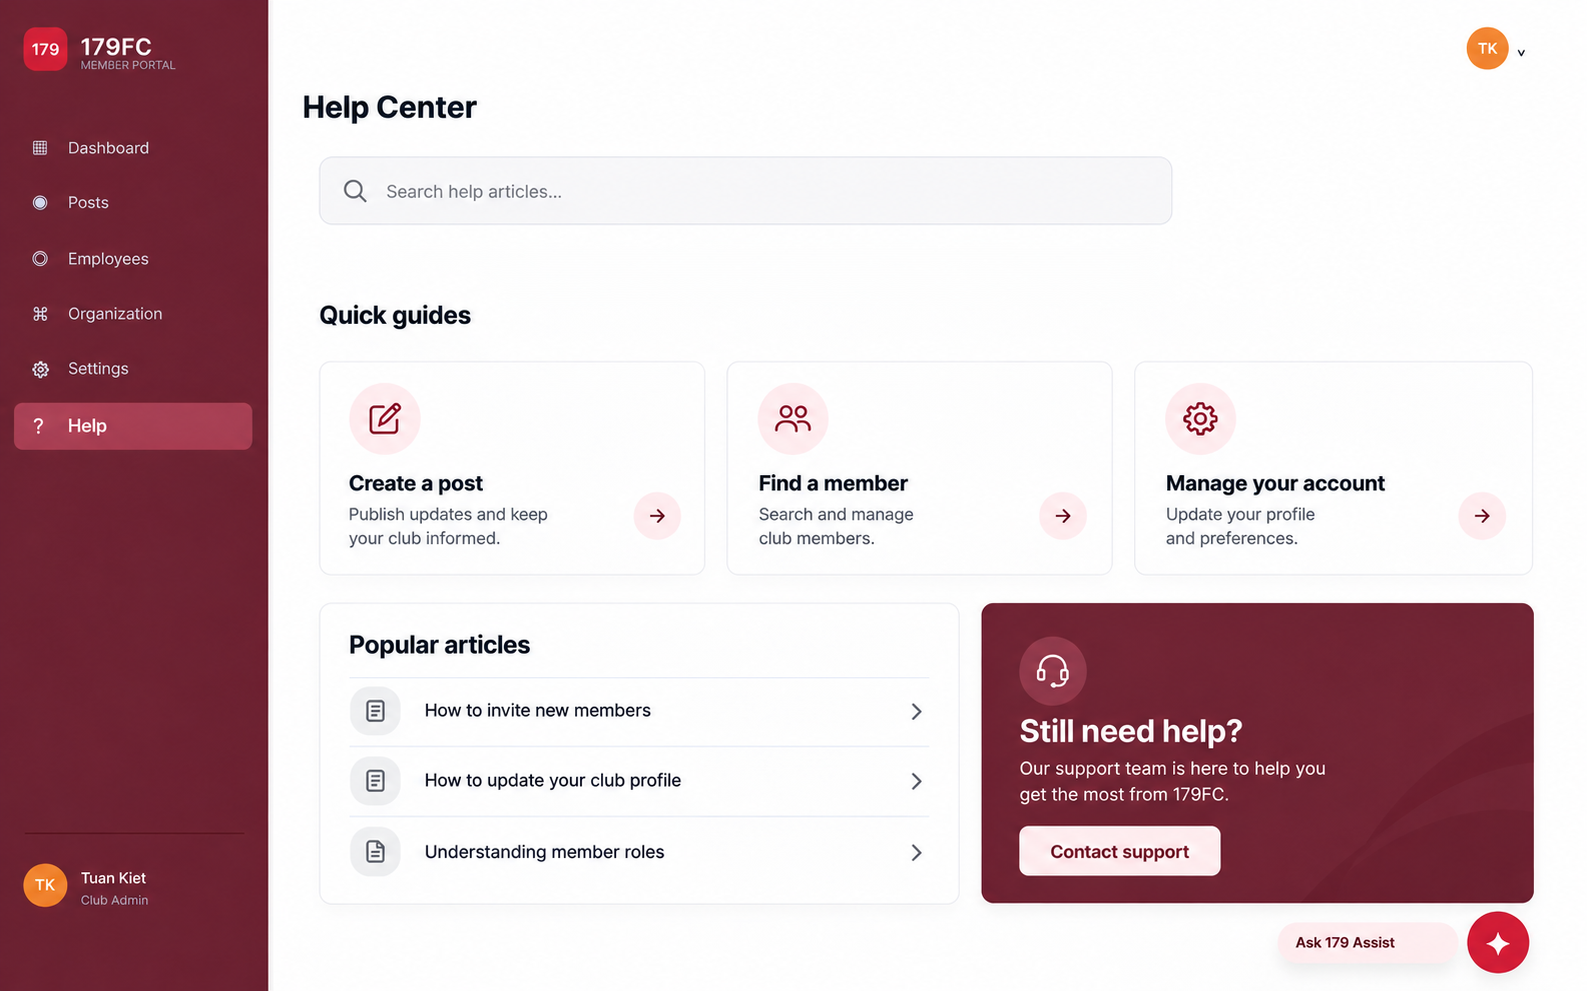
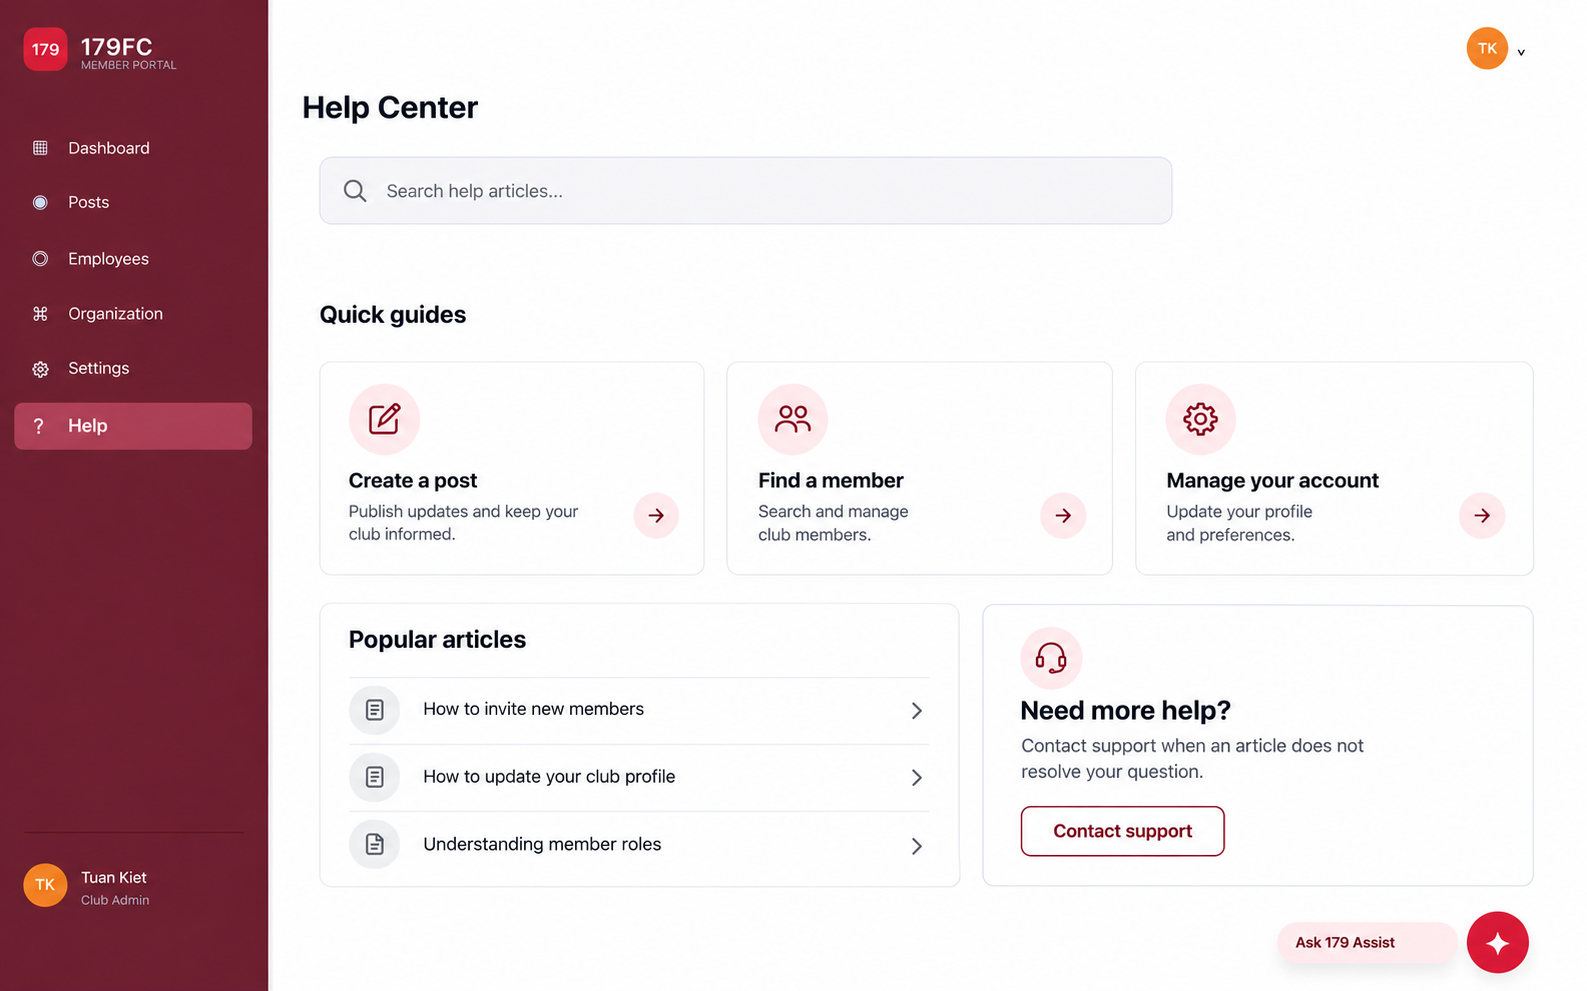
design: refine Help center hierarchy

diff --git a/designs/Help/Help.md b/designs/Help/Help.md
@@ -2,60 +2,38 @@
 
 ## Scope
 
-This revision is the approved visual reference for the authenticated `/help` page in 179MMS-9. It removes the explanatory line under the page title and aligns the Help heading with the shared page-header scale used by Dashboard, Posts, Employees, Organization, and Settings.
+`Help.png` is the revised desktop reference for authenticated `/help` in 179MMS-9. It now normalizes the full Help text hierarchy and introduces the companion article and Support references in this folder. The PNG was revised locally on 2026-11-06; no Figma source or export date was supplied.
 
-Reference asset: `Help.png` (desktop, 1587 × 991). The reference was revised locally for 179MMS-9 on 2026-11-06; no editable Figma source or Figma export date was supplied.
+## Typography and hierarchy
 
-## Layout and visual hierarchy
+- Reuse the shared `TopBar` title treatment for **Help Center** with no subtitle or Help-only hero styling. The title is visually aligned with Dashboard, Posts, Employees, Organization, and Settings.
+- At the desktop reference scale, use approximately 28–30 px for the shared page title, 20–22 px for section headings, 17–18 px for guide titles, and 14–15 px for body copy, article rows, and search text. The responsive implementation may use shared tokens/clamps but must preserve this hierarchy.
+- Keep search as the first content control; it is wide, capped, labelled, and separated from the compact title by stable whitespace.
+- Quick-guide cards, article rows, and the support card use the existing white-surface/card pattern with burgundy accents, cool-gray dividers, and readable near-black text. Do not introduce a new Help-specific visual system.
 
-- Reuse the authenticated shell without a Help-specific header treatment: the shared top-bar title is **Help Center**. It uses the existing shared `top-bar h1` typography, alignment, and responsive sizing. Do not add a Help-only oversized hero title.
-- There is no subtitle, supporting sentence, or blank replacement below **Help Center**. In the current frontend metadata this means Help must not supply `subtitle` to the shared `TopBar`.
-- Keep the search field as the first content control, directly below the compact title with the same content gutter as the page grid. At desktop it is wide but capped rather than spanning the full content canvas.
-- Preserve the existing content order: search; **Quick guides**; **Popular articles** beside **Still need help?**; persistent 179 Assist launcher.
-- Maintain the portal’s burgundy sidebar, near-black headings, white surfaces, fine cool-gray borders, blush guide icons/action buttons, and burgundy support panel. Contrast must remain readable for text, focus indicators, and icon-only actions.
+## Self-service and escalation
 
-## User goal and interaction model
+The primary Help journey is search → quick guide or popular article. **Need more help?** remains necessary as an escalation when a search/article cannot resolve an account, permission, or operational question, but it is intentionally secondary:
 
-Help people resolve common questions independently and provide a clear human-support escalation when self-service is insufficient.
+- It is a quiet white outlined card, not the previous oversized burgundy feature panel.
+- Its short copy sets the expectation that an article should be tried first; **Contact support** is the single secondary action.
+- `/help/support` is designed in `Help_Support.png` and `Help_Support.md`. The current product has no support backend, so this route must not claim a request was sent.
 
-- Global search filters guides and articles by task or keyword. The visible result must retain a clear article or destination affordance.
-- Quick guides take the user to the existing target flows: Create a post, Find a member, and Manage your account.
-- Popular article rows are complete clickable rows with a visible trailing arrow and keyboard focus state; do not make only the icon actionable.
-- **Contact support** preserves the `/help/support` destination already used by the page. If support context becomes available later, it may prefill a concise issue description; no successful support submission is implied by this reference.
+## Content, states, and navigation
 
-## States
+- Search filters the three quick guides and article records by task/keyword. Guide and article targets remain unambiguous and whole rows/actions are keyboard accessible.
+- Popular articles route to `/help/articles/invite-members`, `/help/articles/club-profile`, and `/help/articles/member-roles`. Their references are `Help_Invite_Members.*`, `Help_Club_Profile.*`, and `Help_Member_Roles.*`.
+- Loading keeps the title/search stable and uses card/row skeletons without layout shift. Search is disabled only while filtering cannot be evaluated, with a concise assistive status.
+- Empty results preserve search and the support recovery route, with: **No help articles match your search. Try another keyword or contact support.**
+- Error preserves the title/search and provides an explicit **Retry** action. Focus stays predictable: on an unsuccessful retry it returns to Retry; after a successful retry it returns to the enabled search field.
 
-### Loading
+## Responsive, motion, and accessibility
 
-- Keep the title and search field stable.
-- Replace content cards/rows with matching skeleton blocks; do not shift the shell or title while data arrives.
-- Search is disabled only while the page cannot evaluate a query; announce loading through a concise status message for assistive technology.
-
-### Filtered empty state
-
-- When no guide or article matches, retain the search field and show a polite status below the content area: **No help articles match your search. Try another keyword or contact support.**
-- Keep **Contact support** available as the recovery action.
-
-### Error
-
-- Retain the heading and search field. Replace unavailable content with a concise error message and an explicit **Retry** control.
-- Retry receives focus after activation only when the request remains unsuccessful; on success, focus stays predictable and does not jump away from the search field.
-
-## Responsive behavior
-
-- Desktop (reference): three equal quick-guide cards and a two-column lower section, with Popular articles wider than the support card.
-- Medium widths: retain the shared shell; use two guide columns and stack the lower section when it no longer has room.
-- Narrow widths: use the existing accessible sidebar drawer; stack every guide card and lower panel to one column. Search stays full available width, and the 179 Assist launcher never obscures the primary support action.
-- Preserve 44 px minimum target size for search controls, guide actions, article rows, Contact support, menu toggle, and assistant launcher.
-
-## Motion and accessibility handoff
-
-- Match the portal page-entry convention: a short 350 ms opacity/8–10 px upward reveal after navigation, with no layout movement after the first frame.
-- Reveal Quick guide cards in DOM order with a restrained 40–50 ms stagger; the lower panels may follow after the guide group. Do not animate search text or content while typing/filtering.
-- On hover-capable devices, guide cards and article rows may lift 2–3 px and show the existing subtle shadow/arrow feedback. Pressed feedback is brief and never the only state signal.
-- Honour `prefers-reduced-motion: reduce`: remove entry, stagger, hover-transform, and page-transition movement while preserving all controls and focus treatment.
-- Use visible `:focus-visible` outlines with sufficient contrast. Search has a programmatic label; icon-only guide actions and the assistant launcher must retain accessible names.
+- Desktop uses three quick-guide cards and a lower two-column section. At medium width, guides use two columns and the lower section stacks; at narrow width, the existing sidebar drawer and one-column content layout apply.
+- Interactive targets are at least 44 px. Visible `:focus-visible` treatment is required for search, guide actions, article rows, support action, menu toggle, and assistant launcher.
+- Use the portal’s 350 ms opacity/8–10 px page arrival; quick guides may enter in DOM order with a 40–50 ms stagger. Query edits must not replay entrance motion.
+- `prefers-reduced-motion: reduce` removes page, card, hover-transform, and skeleton movement without removing focus or controls.
 
 ## Implementation boundary
 
-This is a design handoff only. `Help.png` and this file describe the desired frontend presentation; the current help data is browser-local mock content, not a support backend. Developer should reuse the shared `TopBar`, card, route, and motion patterns rather than duplicating shell styles.
+These PNG and Markdown files are design references only. Help articles, invitation delivery, server-authorized roles, and support messaging require future frontend/backend work; browser-local demo state must be labelled honestly.
